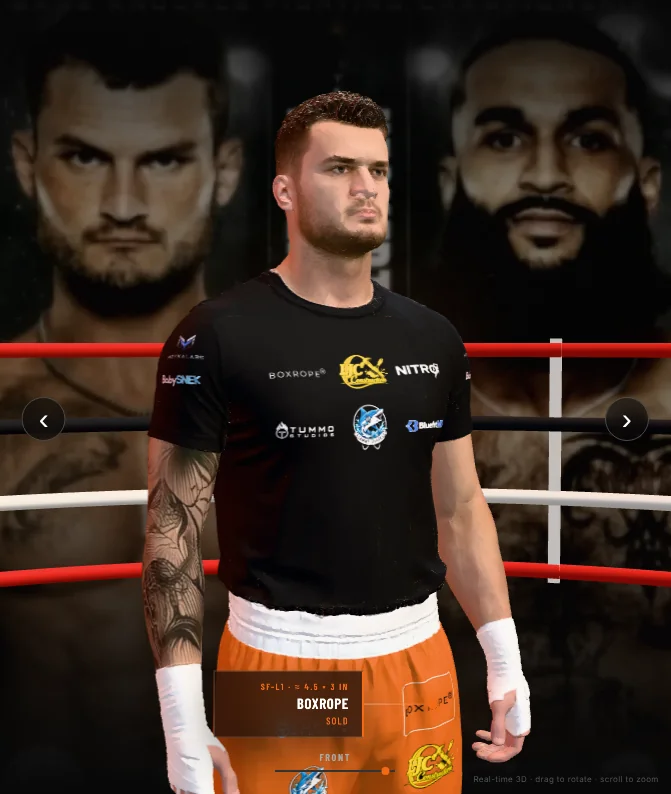
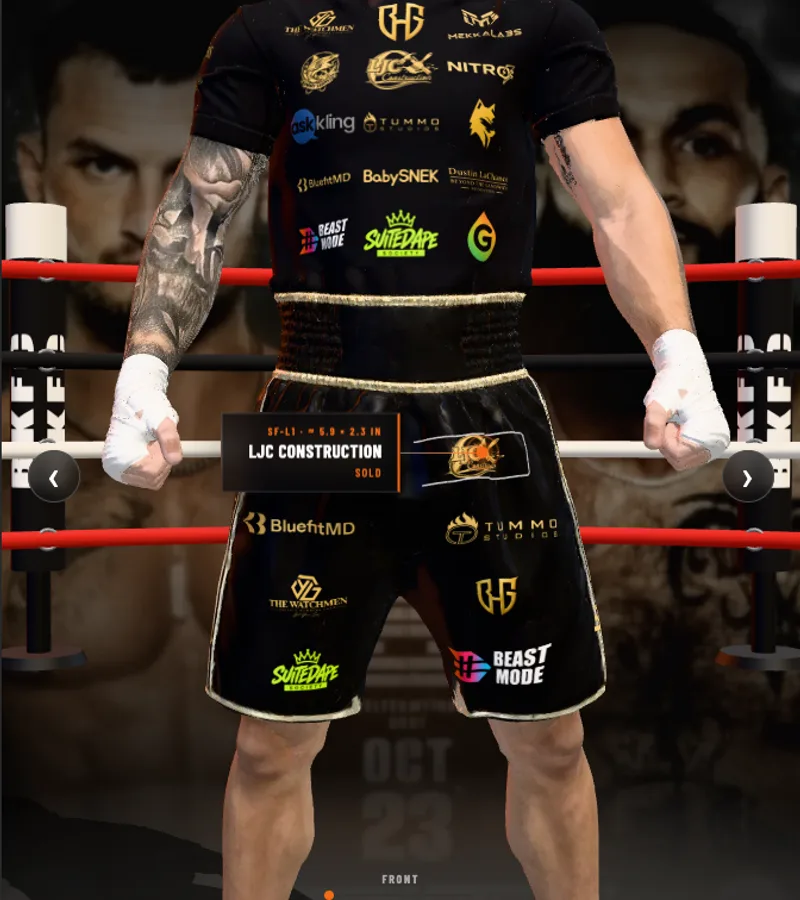
Refresh current Michael kit homepage and optimize mobile portal

diff --git a/public/styles.css b/public/styles.css
@@ -1,7 +1,40 @@
 :root{--bg:#080808;--panel:#101010;--line:#292929;--muted:#9b9b94;--ink:#f5f1e8;--green:#a7ef8b;--display:"Barlow Condensed",Impact,sans-serif;--text:Inter,Arial,sans-serif;color-scheme:dark}*{box-sizing:border-box}html,body{margin:0;min-height:100%;background:var(--bg);color:var(--ink);font-family:var(--text)}button,input{font:inherit}.portal-shell{min-height:100vh;background:radial-gradient(circle at 48% 42%,var(--brand-wash) 0,rgba(8,8,8,0) 33%),#080808;overflow:hidden}.topbar,.portal-footer{height:82px;display:flex;align-items:center;justify-content:space-between;padding:0 clamp(20px,3vw,52px);border-bottom:1px solid var(--line);position:relative;z-index:5}.brand{display:flex;align-items:center;gap:13px;color:inherit;text-decoration:none}.brand-mark{font:800 22px/1 var(--display);letter-spacing:-1px;border:2px solid var(--ink);padding:8px 7px 6px;transform:skew(-7deg)}.brand-copy{display:grid;gap:2px}.brand-copy strong{font:700 17px/1 var(--display);letter-spacing:.1em}.brand-copy small,.event-lockup span{font-size:9px;letter-spacing:.17em;color:var(--muted)}.event-lockup{text-align:right;display:grid;gap:2px}.event-lockup strong{font:700 17px/1 var(--display);letter-spacing:.06em}.experience{min-height:calc(100vh - 152px);display:grid;grid-template-columns:minmax(230px,1fr) minmax(440px,1.85fr) minmax(300px,1.12fr);position:relative}.intro-panel,.inventory-panel{padding:clamp(32px,4vw,66px) clamp(22px,3vw,48px);position:relative;z-index:3}.intro-panel{display:flex;flex-direction:column;justify-content:center;border-right:1px solid var(--line);background:linear-gradient(90deg,#0d0d0d 75%,rgba(13,13,13,.35))}.eyebrow{margin:0 0 12px;color:var(--orange);font:700 11px/1 var(--display);letter-spacing:.22em}.intro-panel h1{font:800 clamp(48px,5.4vw,88px)/.82 var(--display);letter-spacing:-.045em;text-transform:uppercase;margin:0 0 28px}.intro-panel h1 em{font-style:normal;color:var(--orange)}.intro-copy{color:#b5b2aa;font-size:13px;line-height:1.7;max-width:330px;margin:0 0 34px}.garment-tabs{display:grid;grid-template-columns:1fr 1fr;border:1px solid var(--line);padding:4px;max-width:340px}.garment-tab{border:0;background:transparent;color:var(--muted);padding:12px 8px;text-transform:uppercase;font:700 13px/1 var(--display);letter-spacing:.08em;cursor:pointer}.garment-tab.is-active{background:var(--ink);color:#0a0a0a}.view-actions{display:grid;grid-template-columns:repeat(4,1fr);gap:5px;max-width:340px;margin-top:10px}.view-actions button{background:#151515;color:#aaa;border:1px solid #242424;padding:9px 3px;text-transform:uppercase;font:600 10px/1 var(--display);letter-spacing:.08em;cursor:pointer}.view-actions button:hover{color:white;border-color:#555}.drag-instruction{margin-top:30px;display:flex;align-items:center;gap:12px;text-transform:uppercase;font:600 9px/1 var(--display);letter-spacing:.15em;color:#777}.drag-line{width:48px;height:1px;background:#555;position:relative}.drag-line:before,.drag-line:after{content:"";position:absolute;top:-3px;width:7px;height:7px;border-top:1px solid #777;border-left:1px solid #777}.drag-line:before{left:0;transform:rotate(-45deg)}.drag-line:after{right:0;transform:rotate(135deg)}.model-stage{position:relative;min-height:670px;height:calc(100vh - 152px);display:flex;align-items:flex-end;justify-content:center;overflow:hidden;touch-action:none;cursor:grab;background:radial-gradient(ellipse at 50% 80%,rgba(var(--accent-rgb),.22),transparent 42%)}.model-stage.is-dragging{cursor:grabbing}.stage-glow{position:absolute;width:62%;height:72%;left:19%;bottom:7%;background:radial-gradient(ellipse,rgba(var(--accent-rgb),.16),transparent 66%);filter:blur(20px)}.stage-glow:after{content:"";position:absolute;left:10%;right:10%;bottom:3%;height:2px;background:linear-gradient(90deg,transparent,var(--orange),transparent);box-shadow:0 0 30px var(--orange)}.viewer-canvas{position:absolute;inset:0;width:100%;height:100%;display:block;z-index:1;outline:0}.viewer-loading{position:absolute;inset:0;display:flex;align-items:center;justify-content:center;z-index:2;color:#888;font:700 12px/1 var(--display);letter-spacing:.2em;pointer-events:none;transition:opacity .4s}.model-stage.is-ready .viewer-loading{opacity:0}.garment-overlay{position:absolute;inset:0;width:100%;height:100%;pointer-events:none;overflow:visible}.garment-overlay #garmentPath{stroke:rgba(255,255,255,.12);stroke-width:2}.slot{pointer-events:auto;cursor:pointer;transition:opacity .18s,filter .18s}.slot rect{fill:rgba(255,255,255,.07);stroke:rgba(255,255,255,.78);stroke-width:2;stroke-dasharray:7 5;rx:4}.slot text{fill:white;font:700 16px var(--display);letter-spacing:1px;text-anchor:middle;dominant-baseline:middle}.slot:hover rect,.slot.is-selected rect{fill:rgba(var(--accent-rgb),.28);stroke:var(--orange);filter:drop-shadow(0 0 8px rgba(var(--accent-rgb),.65))}.slot image{pointer-events:none}.rotate-button{position:absolute;top:50%;z-index:4;width:44px;height:44px;border-radius:50%;border:1px solid #4b4b4b;background:rgba(8,8,8,.55);color:white;font:300 30px/1 Arial;cursor:pointer;backdrop-filter:blur(8px)}.rotate-prev{left:22px}.rotate-next{right:22px}.orientation{position:absolute;bottom:22px;left:50%;transform:translateX(-50%);z-index:4;text-align:center;font:700 10px/1 var(--display);letter-spacing:.16em;color:#aaa}.orientation-track{width:120px;height:2px;background:#333;margin-top:8px;position:relative}.orientation-track i{display:block;position:absolute;top:-3px;width:8px;height:8px;border-radius:50%;background:var(--orange);transform:translateX(-50%);transition:left .15s}.model-credit{position:absolute;right:12px;bottom:10px;color:#555;font-size:8px;letter-spacing:.05em;z-index:3}.inventory-panel{border-left:1px solid var(--line);background:linear-gradient(270deg,#0d0d0d 75%,rgba(13,13,13,.55));overflow:auto;max-height:calc(100vh - 82px)}.inventory-heading{display:flex;align-items:flex-start;justify-content:space-between;gap:12px;margin-bottom:22px}.inventory-heading h2{margin:0;font:700 25px/1 var(--display);text-transform:uppercase}.availability{display:flex;align-items:center;gap:6px;color:var(--green);font:600 9px/1 var(--display);letter-spacing:.12em;text-transform:uppercase}.availability i{width:6px;height:6px;border-radius:50%;background:var(--green);box-shadow:0 0 8px var(--green)}.inventory-list{display:grid;gap:6px;margin-bottom:22px;max-height:340px;overflow:auto;padding-right:4px;scrollbar-color:#4a4a4a transparent;scrollbar-width:thin}.inventory-item{display:grid;grid-template-columns:34px 1fr auto;align-items:center;gap:10px;text-align:left;border:1px solid #252525;background:#141414;color:#d9d5cc;padding:10px 12px;cursor:pointer}.inventory-item:hover,.inventory-item.is-selected{border-color:var(--orange-stroke);background:var(--orange-panel)}.inventory-item .num{font:700 12px/1 var(--display);color:var(--orange)}.inventory-item strong{display:block;font:600 12px/1.15 var(--text)}.inventory-item small{font-size:9px;color:#777}.inventory-item .status{font:600 8px/1 var(--display);letter-spacing:.12em;color:var(--green)}.selection-card{border-top:1px solid var(--line);padding-top:22px}.selection-top{display:flex;justify-content:space-between;font:700 9px/1 var(--display);letter-spacing:.15em;color:var(--orange)}.selection-top span:last-child{color:var(--green)}.selection-card h3{font:700 28px/1 var(--display);text-transform:uppercase;margin:10px 0 8px}.selection-card>p{font-size:11px;line-height:1.55;color:#8f8d87}.logo-upload{display:flex;align-items:center;justify-content:center;margin:17px 0 8px;border:1px dashed #4c4c4c;background:#151515;min-height:46px;color:#bbb;font:600 10px/1 var(--display);letter-spacing:.11em;text-transform:uppercase;cursor:pointer}.logo-upload:hover{border-color:var(--orange);color:white}.logo-upload input{display:none}.primary-cta{width:100%;border:0;background:var(--orange);color:#100702;padding:15px 18px;font:800 13px/1 var(--display);letter-spacing:.09em;text-transform:uppercase;cursor:pointer}.primary-cta:hover{background:var(--orange-hover)}.privacy-note{text-align:center;font-size:8px!important;color:#666!important}.portal-footer{height:70px;border-top:1px solid var(--line);border-bottom:0}.portal-footer>div{display:grid;gap:3px}.portal-footer strong{font:700 13px/1 var(--display);letter-spacing:.08em}.portal-footer span{font:500 8px/1 var(--display);color:#777;letter-spacing:.12em}.portal-footer button{border:1px solid #3b3b3b;background:transparent;color:#aaa;padding:10px 18px;font:600 10px/1 var(--display);letter-spacing:.11em;text-transform:uppercase;cursor:pointer}dialog{width:min(620px,calc(100% - 30px));background:#111;color:var(--ink);border:1px solid #373737;padding:38px;box-shadow:0 30px 100px #000}dialog::backdrop{background:rgba(0,0,0,.82);backdrop-filter:blur(6px)}dialog h2{font:700 38px/1 var(--display);text-transform:uppercase;margin:0 0 12px}dialog p{color:#aaa;font-size:13px;line-height:1.6}dialog pre{white-space:pre-wrap;word-break:break-all;background:#080808;border:1px solid #2a2a2a;padding:16px;color:#d0c9bc;font-size:11px;line-height:1.5}.dialog-close{position:absolute;right:14px;top:12px;border:0;background:none;color:#888;font-size:28px;cursor:pointer}
-@media(max-width:1100px){.experience{grid-template-columns:230px minmax(400px,1fr) 300px}.intro-panel,.inventory-panel{padding:32px 20px}.intro-panel h1{font-size:55px}}
-@media(max-width:820px){.portal-shell{overflow:visible}.topbar{height:66px}.event-lockup{display:none}.experience{display:flex;flex-direction:column}.intro-panel{border-right:0;border-bottom:1px solid var(--line);padding:25px 20px 18px}.intro-panel h1{font-size:52px;margin-bottom:16px}.intro-copy{margin-bottom:18px}.garment-tabs,.view-actions{max-width:none}.drag-instruction{margin-top:16px}.model-stage{min-height:610px;height:76vh}.inventory-panel{border-left:0;border-top:1px solid var(--line);max-height:none;padding:30px 20px 42px}.model-credit{display:none}.portal-footer{height:auto;padding:18px 20px;gap:15px;align-items:flex-start}.portal-footer span{line-height:1.4}.rotate-prev{left:10px}.rotate-next{right:10px}}
-@media(max-width:480px){.brand-copy small{display:none}.model-stage{height:66vh;min-height:540px}.intro-panel h1{font-size:47px}.orientation{bottom:14px}.inventory-heading{align-items:flex-end}.portal-footer>div span{max-width:230px}.slot text{font-size:20px}}
+@media(max-width:1100px){
+  .portal-shell{overflow:visible}
+  .topbar{height:60px;padding:0 18px}
+  .event-lockup{display:none}
+  .experience{display:grid;grid-template-columns:minmax(0,1fr);grid-template-areas:"intro" "stage" "controls" "extras" "inventory";min-height:0}
+  .intro-panel{display:contents}
+  .intro-heading{grid-area:intro;padding:18px 20px 14px;background:#0d0d0d}
+  .intro-panel h1{font-size:34px;line-height:1;margin-bottom:10px;letter-spacing:-.02em}
+  .intro-panel h1 br{display:initial}
+  .intro-copy{max-width:650px;font-size:12px;line-height:1.5;margin:0}
+  .intro-heading .eyebrow{font-size:10px;margin-bottom:8px}
+  .model-stage{grid-area:stage;min-height:0;height:clamp(360px,58vh,640px);height:clamp(360px,58svh,640px);touch-action:pan-y}
+  .kit-controls{grid-area:controls;padding:14px 20px;background:#101010;border-top:1px solid var(--line)}
+  .garment-tabs,.view-actions,.motion-bar{max-width:none}
+  .garment-tab,.view-actions button,.motion-bar button{min-height:44px;font-size:12px}
+  .view-actions{margin-top:8px}
+  .motion-bar{margin-top:12px}
+  .intro-extras{grid-area:extras;padding:0 20px 18px;background:#101010}
+  .drag-instruction{margin:4px 0 0;font-size:10px}
+  .inventory-panel{grid-area:inventory;border-left:0;border-top:1px solid var(--line);max-height:none;padding:24px 20px 32px;overflow:visible}
+  .inventory-list{max-height:300px}
+  .inventory-item{min-height:56px}
+  .inventory-item strong{font-size:13px;overflow-wrap:anywhere}
+  .inventory-item small{font-size:10px}
+  .inventory-item>span:nth-child(2){min-width:0}
+  .selection-card>p{font-size:13px}
+  .bid-fields input,.bid-amount input{font-size:16px;min-height:48px}
+  .primary-cta,.secondary-cta,.lock-cta,.pay-cta{min-height:48px}
+  .model-credit{display:none}
+  .portal-footer{height:auto;padding:18px 20px;gap:15px;align-items:flex-start;flex-wrap:wrap}
+  .portal-footer span{line-height:1.4}
+  .portal-footer button{min-height:44px}
+  .rotate-prev{left:10px}
+  .rotate-next{right:10px}
+}
+@media(max-width:480px){.brand-copy small{display:none}.model-stage{height:clamp(360px,58vh,520px);height:clamp(360px,58svh,520px)}.intro-panel h1{font-size:30px}.orientation{bottom:14px}.inventory-heading{align-items:flex-end}.portal-footer>div span{max-width:230px}.slot text{font-size:20px}}
 @media(prefers-reduced-motion:reduce){*{scroll-behavior:auto!important;transition:none!important}}
 .inventory-item.is-sold{opacity:.72}.inventory-item.is-sold .status{color:var(--orange)}.inventory-item.is-sold strong{color:#f5f1e8}.availability.is-full,.availability.is-full i{color:var(--orange);background:var(--orange);box-shadow:none}.availability.is-full{background:none}.selection-card.is-sold .selection-top span:last-child{color:var(--orange)}.selection-card.is-sold .logo-upload,.selection-card.is-sold .primary-cta,.selection-card.is-sold .privacy-note{display:none}
 .viewer-loading{flex-direction:column;gap:14px}.spinner{width:34px;height:34px;border-radius:50%;border:2px solid #2a2a2a;border-top-color:var(--orange);animation:spin .9s linear infinite}@keyframes spin{to{transform:rotate(360deg)}}.model-stage.has-error .spinner{display:none}.model-stage.has-error .viewer-loading{color:#d9d5cc;letter-spacing:.08em;text-align:center;padding:0 30px}.viewer-canvas{opacity:0;transition:opacity .6s}.model-stage.is-ready .viewer-canvas{opacity:1}.viewer-canvas:focus-visible{outline:2px solid var(--orange);outline-offset:-2px}
@@ -12,8 +45,8 @@
 .sponsor-logo.is-dark-art{background:#efece4;border-color:#efece4}
 /* Embedded inside a host page: the host iframe is sized from the document height, so avoid viewport units. */
 html.is-embedded,html.is-embedded body{min-height:0}html.is-embedded .portal-shell{min-height:0}html.is-embedded .experience{min-height:0}html.is-embedded .model-stage{height:auto;min-height:740px;align-self:stretch}html.is-embedded .inventory-panel{max-height:none}html.is-embedded .inventory-list{max-height:300px}html.is-embedded #embedButton{display:none}
-@media(max-width:820px){html.is-embedded .model-stage{height:600px;min-height:0}}
-@media(max-width:480px){html.is-embedded .model-stage{height:520px;min-height:0}}
+@media(max-width:1100px){html.is-embedded .model-stage{height:560px;min-height:0}}
+@media(max-width:480px){html.is-embedded .model-stage{height:460px;min-height:0}}
 .bid-panel{margin-top:14px;display:grid;gap:12px}.bid-status{display:grid;grid-template-columns:1fr 1fr;gap:8px}.bid-stat{border:1px solid var(--line);background:#141414;padding:12px 12px 10px;display:grid;gap:4px}.bid-stat span{font:700 9px/1 var(--display);letter-spacing:.18em;color:var(--muted);text-transform:uppercase}.bid-stat strong{font:800 24px/1 var(--display);letter-spacing:-.01em}.bid-stat small{font-size:10px;color:#9b9b94;line-height:1.35;white-space:normal;overflow-wrap:anywhere}.bid-stat--lock{border-color:rgba(var(--accent-rgb),.55);background:linear-gradient(180deg,var(--orange-gradient),#141414)}.bid-stat--lock strong{color:var(--orange)}#bidForm{display:grid;gap:8px}.bid-fields{display:grid;grid-template-columns:1fr 1fr;gap:6px}.bid-fields input,.bid-amount input{width:100%;min-width:0;border:1px solid #3a3a3a;background:#0c0c0c;color:var(--ink);padding:10px 11px;font-size:12px;border-radius:0}.bid-fields input:focus,.bid-amount input:focus{outline:none;border-color:var(--orange)}.bid-actions{display:grid;grid-template-columns:minmax(0,1fr) minmax(0,1.3fr);gap:6px}.bid-amount{display:flex;align-items:center;border:1px solid #3a3a3a;background:#0c0c0c}.bid-amount span{padding:0 0 0 11px;color:var(--muted);font:700 14px/1 var(--display)}.bid-amount input{border:0;padding-left:5px;font:800 16px/1 var(--display);-moz-appearance:textfield}.bid-amount input::-webkit-outer-spin-button,.bid-amount input::-webkit-inner-spin-button{-webkit-appearance:none;margin:0}.bid-panel .primary-cta{padding:13px 12px}.lock-cta{width:100%;border:2px solid var(--orange);background:transparent;color:var(--orange);padding:13px 18px;font:800 14px/1 var(--display);letter-spacing:.1em;text-transform:uppercase;cursor:pointer;transition:background .15s,color .15s}.lock-cta:hover{background:var(--orange);color:#100702}.lock-cta:disabled,.bid-panel .primary-cta:disabled{opacity:.45;cursor:not-allowed}.lock-cta:focus-visible{outline:2px solid var(--orange);outline-offset:2px}.bid-error{margin:0;color:#ff8f6b;font-size:11px;line-height:1.45}.bid-benefits{border:1px solid var(--line);background:#0e0e0e;font-size:11px;line-height:1.5;color:#c9c6bd}.bid-benefits summary{cursor:pointer;padding:10px 12px;font:700 10px/1 var(--display);letter-spacing:.16em;text-transform:uppercase;color:var(--ink)}.bid-benefits p{margin:0 12px 6px;color:#9b9b94}.bid-benefits ul{margin:0 0 10px;padding:0 12px 0 28px}.bid-benefits li{margin:3px 0}.bid-benefits strong{color:var(--orange)}.bid-note{margin:0;font-size:10px;line-height:1.5;color:#7f7d76}.bid-note a{color:var(--muted)}.selection-card.is-sold .bid-panel{display:none}
 @media(max-width:480px){.bid-fields,.bid-status{grid-template-columns:1fr}.bid-actions{grid-template-columns:1fr}}
 .bid-success{display:grid;gap:8px;padding:14px;border:1px solid rgba(var(--accent-rgb),.55);background:linear-gradient(180deg,var(--orange-gradient),#141414)}.bid-success[hidden]{display:none}.bid-success strong{font:800 15px/1.2 var(--display);letter-spacing:.02em;color:var(--orange)}.bid-success p{margin:0;font-size:11px;line-height:1.5;color:#c9c6bd}.bid-success{margin-top:14px}.pay-cta{display:block;text-align:center;text-decoration:none;background:var(--orange);color:#100702;padding:13px 18px;font:800 13px/1 var(--display);letter-spacing:.09em;text-transform:uppercase}.pay-cta:hover{background:var(--orange-pay-hover)}.pay-cta[hidden]{display:none}
@@ -26,7 +59,7 @@ html.is-embedded,html.is-embedded body{min-height:0}html.is-embedded .portal-she
 /* Viewport fit (desktop, standalone): the whole portal sits in one 100vh screen. The right column is a flex column
    where the inventory list absorbs the slack and scrolls, so the detail card, bid form and Lock button stay in view. */
 :root{--topbar-h:60px;--footer-h:46px}
-@media(min-width:821px) and (min-height:600px){
+@media(min-width:1101px) and (min-height:600px){
 html:not(.is-embedded) .topbar{height:var(--topbar-h);flex:none}html:not(.is-embedded) .portal-footer{height:var(--footer-h);flex:none}
 html:not(.is-embedded) .brand-mark{font-size:19px;padding:6px 6px 5px}
 html:not(.is-embedded) .portal-shell{min-height:100vh;height:100vh;display:flex;flex-direction:column;overflow:hidden}
@@ -62,7 +95,7 @@ html:not(.is-embedded) .drag-instruction{margin-top:18px}
 html:not(.is-embedded) .poster-card{margin-top:18px;padding:8px}html:not(.is-embedded) .poster-card img{width:48px;height:60px}
 }
 /* Short desktop screens (13" laptops at 768-820px tall): one more step down. */
-@media(min-width:821px) and (min-height:600px) and (max-height:820px){
+@media(min-width:1101px) and (min-height:600px) and (max-height:820px){
 :root{--topbar-h:54px;--footer-h:40px}
 html:not(.is-embedded) .intro-panel h1{font-size:clamp(34px,3.8vw,54px);margin-bottom:12px;line-height:.85}
 html:not(.is-embedded) .intro-copy{margin-bottom:14px;font-size:12px}
@@ -89,7 +122,7 @@ html:not(.is-embedded) .portal-footer span{display:none}
 .spot-callout.is-left .spot-callout-line{left:auto;right:5px;background:linear-gradient(270deg,var(--orange),rgba(255,255,255,.55))}.spot-callout.is-left .spot-callout-card{left:auto;right:69px;border-left:1px solid rgba(255,255,255,.14);border-right:2px solid var(--orange);text-align:right}
 .spot-callout-code{font:700 9px/1 var(--display);letter-spacing:.16em;color:var(--orange);text-transform:uppercase;white-space:nowrap}.spot-callout-name{font:700 15px/1.1 var(--display);letter-spacing:.03em;text-transform:uppercase;color:#fff}.spot-callout-meta{font:600 10px/1 var(--display);letter-spacing:.12em;text-transform:uppercase;color:var(--green)}.spot-callout.is-sold .spot-callout-meta{color:var(--orange)}
 .spec-row{display:grid;grid-template-columns:repeat(3,minmax(0,1fr));gap:1px;margin:10px 0 2px;background:var(--line);border:1px solid var(--line)}.spec{display:grid;gap:4px;padding:8px 10px;background:#111}.spec span{font:700 8px/1 var(--display);letter-spacing:.16em;color:var(--muted);text-transform:uppercase}.spec strong{font:700 13px/1.1 var(--display);letter-spacing:.02em;color:var(--ink);white-space:nowrap;overflow:hidden;text-overflow:ellipsis}.spec-row:empty{display:none}
-@media(max-width:820px){.spot-callout-card{min-width:120px;padding:8px 10px}.spot-callout-line{width:36px}.spot-callout-card{left:41px}.spot-callout.is-left .spot-callout-card{right:41px}}
+@media(max-width:1100px){.spot-callout-card{min-width:100px;max-width:140px;padding:8px 10px}.spot-callout-name{font-size:12px}.spot-callout-line{width:24px}.spot-callout-card{left:29px}.spot-callout.is-left .spot-callout-card{right:29px}}
 @media(prefers-reduced-motion:reduce){.spot-callout-dot:after{animation:none}}
 body.is-showcase #bidPanel,body.is-showcase .logo-upload,body.is-showcase .preview-thumb,body.is-showcase .bid-success,body.is-showcase .privacy-note,body.is-showcase .availability,body.is-showcase #openPlacements{display:none}
 .demo-badge{position:absolute;top:18px;left:20px;z-index:5;max-width:calc(100% - 120px);padding:8px 10px;border:1px solid rgba(var(--accent-rgb),.5);background:rgba(8,8,8,.76);color:var(--orange);font:800 11px/1 var(--display);letter-spacing:.12em;text-transform:uppercase;backdrop-filter:blur(8px)}
@@ -115,3 +148,4 @@ html.is-card-capture .experience{display:block;height:100vh;min-height:100vh}
 html.is-card-capture .model-stage{width:100vw;height:100vh;min-height:0;cursor:default}
 
 .motion-bar{display:grid;grid-template-columns:repeat(3,1fr);gap:5px;max-width:340px;margin-top:18px}.motion-bar[hidden]{display:none}.motion-title{grid-column:1/-1;display:flex;align-items:center;gap:8px;margin-bottom:3px;color:var(--orange);font:700 11px/1 var(--display);letter-spacing:.22em;text-transform:uppercase}.motion-title:after{content:"";flex:1;height:1px;background:var(--line)}.motion-bar button{background:#151515;color:#aaa;border:1px solid #242424;padding:9px 3px;text-transform:uppercase;font:600 10px/1 var(--display);letter-spacing:.08em;cursor:pointer;transition:color .15s,border-color .15s,background .15s}.motion-bar button:hover{color:#fff;border-color:#555}.motion-bar button.is-playing{color:#fff;border-color:var(--orange);background:var(--orange-panel)}.motion-bar button.is-playing:before{content:"";display:inline-block;width:5px;height:5px;margin-right:6px;border-radius:50%;background:var(--orange);vertical-align:1px;animation:motion-pulse 1s ease-in-out infinite}.motion-bar button:focus-visible{outline:2px solid var(--orange);outline-offset:2px}@keyframes motion-pulse{50%{opacity:.25}}
+@media(max-width:1100px){.motion-bar{grid-template-columns:repeat(2,minmax(0,1fr));max-width:none;margin-top:12px}.motion-bar button{min-height:44px;font-size:12px}.bid-fields input,.bid-amount input{font-size:16px}}

diff --git a/public/index.html b/public/index.html
@@ -24,25 +24,28 @@
 <body>
   <header class="nav" id="top">
     <a class="wordmark" href="/" aria-label="Athlete Sponsorship Portal home"><span class="wordmark-mark">ASP</span><span class="wordmark-text">Athlete Sponsorship Portal</span></a>
-    <nav class="nav-links" aria-label="Primary">
+    <nav class="nav-links" id="primaryNav" aria-label="Primary">
       <a href="#how">How it works</a>
       <a href="#case-study">Case study</a>
       <a href="#demos">Pick your sport</a>
       <a href="#founding">Founding offer</a>
       <a href="#faq">FAQ</a>
     </nav>
-    <a class="btn btn--primary btn--sm" href="#apply">Apply</a>
+    <div class="nav-actions">
+      <a class="btn btn--primary btn--sm" href="#apply">Apply</a>
+      <button class="nav-toggle" type="button" aria-controls="primaryNav" aria-expanded="false" hidden>Menu</button>
+    </div>
   </header>
 
   <main>
     <section class="hero">
       <div class="hero-copy">
         <p class="kicker">For fighters and athletes</p>
-        <h1>Sell every<br>inch of your<br><em>fight kit.</em></h1>
-        <p class="lede">A 360° sponsorship portal built around a 3D model of you. Sponsors spin you around, pick a placement on your shorts or walkout shirt, bid or lock it in — and pay you directly.</p>
+        <h1>Sell every inch<br>of your <em>fight kit.</em></h1>
+        <p class="lede">Your likeness. Every placement. One link. Give sponsors a 360° view of your fight kit, let them choose their spot, and get paid directly through Stripe.</p>
         <div class="hero-actions">
           <a class="btn btn--primary" href="#apply">Apply for a founding spot</a>
-          <a class="btn btn--ghost" href="/michael-heckert">See a sold-out portal</a>
+          <a class="btn btn--ghost" href="/michael-heckert">Explore Michael's portal</a>
         </div>
         <dl class="proof">
           <div><dt>Placements sold</dt><dd>12/12</dd></div>
@@ -53,26 +56,37 @@
       <figure class="hero-shot">
         <div class="browser">
           <div class="browser-bar"><i></i><i></i><i></i><span>athletes.michaelheckert.com/michael-heckert</span></div>
-          <img src="/assets/marketing/portal-hero.webp" width="1440" height="900" alt="Michael Heckert's sold-out sponsorship portal: a 3D model of Michael in his fight shorts and walkout shirt with every sponsor logo placed">
+          <a class="hero-preview" href="/michael-heckert" aria-label="Explore Michael Heckert's current kit in 3D">
+            <picture>
+              <source media="(max-width:640px)" srcset="/assets/marketing/portal-hero-mobile.webp" width="780" height="900">
+              <img src="/assets/marketing/portal-hero.webp" width="1440" height="900" fetchpriority="high" alt="Michael Heckert's current 3D likeness in a black sponsor T-shirt and knee-length boxing trunks with gold sponsor artwork">
+            </picture>
+            <span class="hero-preview-label">Explore the kit in 3D <span aria-hidden="true">→</span></span>
+          </a>
         </div>
-        <figcaption>Michael Heckert · BKFC Fight Night Clearwater · every placement sold</figcaption>
+        <figcaption>Michael Heckert · Current likeness &amp; sponsor kit</figcaption>
       </figure>
     </section>
 
     <section class="sponsors" aria-label="Brands that sponsored Michael Heckert">
-      <p class="kicker kicker--muted">Brands that bought placements on Michael's kit</p>
+      <p class="kicker kicker--muted">17 brands on Michael's current kit</p>
       <ul class="sponsor-wall">
-        <li><img src="/tenants/michael-heckert/sponsors/boxrope.png" alt="Boxrope" loading="lazy"></li>
-        <li><img src="/tenants/michael-heckert/sponsors/ljc-construction.png" alt="LJC Construction" loading="lazy"></li>
-        <li><img src="/tenants/michael-heckert/sponsors/nitro.png" alt="Nitro" loading="lazy"></li>
-        <li><img src="/tenants/michael-heckert/sponsors/tummo-studios.png" alt="Tummo Studios" loading="lazy"></li>
-        <li><img src="/tenants/michael-heckert/sponsors/sammy-sharks.png" alt="Sammy Sharks" loading="lazy"></li>
-        <li><img src="/tenants/michael-heckert/sponsors/bluefitmd.png" alt="BluefitMD" loading="lazy"></li>
-        <li><img src="/tenants/michael-heckert/sponsors/mekkalabs.png" alt="Mekkalabs" loading="lazy"></li>
-        <li><img src="/tenants/michael-heckert/sponsors/babysnek.png" alt="BabySNEK" loading="lazy"></li>
-        <li><img src="/tenants/michael-heckert/sponsors/watchmen.png" alt="Watchmen" loading="lazy"></li>
+        <li><img src="/tenants/michael-heckert/sponsors/king-killers-gold.png" alt="King Killers" loading="lazy"></li>
+        <li><img src="/tenants/michael-heckert/sponsors/boxrope-gold.png" alt="Boxrope" loading="lazy"></li>
+        <li><img src="/tenants/michael-heckert/sponsors/watchmen-gold.png" alt="Watchmen PMC" loading="lazy"></li>
+        <li><img src="/tenants/michael-heckert/sponsors/bhg-gold.png" alt="BHG" loading="lazy"></li>
+        <li><img src="/tenants/michael-heckert/sponsors/ljc-construction-gold.png" alt="LJC Construction" loading="lazy"></li>
+        <li><img src="/tenants/michael-heckert/sponsors/nitro-gold.png" alt="Nitro" loading="lazy"></li>
+        <li><img src="/tenants/michael-heckert/sponsors/tummo-studios-gold.png" alt="Tummo Studios" loading="lazy"></li>
+        <li><img src="/tenants/michael-heckert/sponsors/sammy-sharks-gold.png" alt="Sammy Sharks" loading="lazy"></li>
+        <li><img src="/tenants/michael-heckert/sponsors/bluefitmd-gold.png" alt="BluefitMD" loading="lazy"></li>
+        <li><img src="/tenants/michael-heckert/sponsors/mekkalabs-gold.png" alt="Mekkalabs" loading="lazy"></li>
+        <li><img src="/tenants/michael-heckert/sponsors/babysnek-gold.png" alt="BabySNEK" loading="lazy"></li>
+        <li><img src="/tenants/michael-heckert/sponsors/daunt-gold.png" alt="Daunt" loading="lazy"></li>
+        <li><img src="/tenants/michael-heckert/sponsors/dustin-lachance-foundation-gold.png" alt="Dustin LaChance Foundation" loading="lazy"></li>
+        <li><img src="/tenants/michael-heckert/sponsors/askkling.png" alt="askkling" loading="lazy"></li>
+        <li><img src="/tenants/michael-heckert/sponsors/beastmode-white.png" alt="#BEASTMODE App" loading="lazy"></li>
         <li><img src="/tenants/michael-heckert/sponsors/suited-ape-society.png" alt="Suited Ape Society" loading="lazy"></li>
-        <li><img src="/tenants/michael-heckert/sponsors/beastmode.png" alt="#BEASTMODE App" loading="lazy"></li>
         <li><img src="/tenants/michael-heckert/sponsors/pergram.png" alt="PerGram App" loading="lazy"></li>
       </ul>
     </section>
@@ -92,7 +106,7 @@
 
     <section class="section section--split">
       <figure class="feature-shot">
-        <img src="/assets/marketing/placement-closeup.webp" width="1440" height="900" alt="A selected sponsor placement on the 3D fight shorts with its print size and sponsor shown in a callout" loading="lazy">
+        <img src="/assets/marketing/placement-closeup.webp" width="800" height="900" alt="A selected sponsor placement on Michael's updated boxing trunks with its print size and sponsor shown in a callout" loading="lazy">
       </figure>
       <div>
         <header class="section-head">
@@ -113,14 +127,14 @@
       <div class="case-copy">
         <p class="kicker">Case study · BKFC Fight Night Clearwater</p>
         <h2>Sold out before<br><em>fight night.</em></h2>
-        <p>Michael “King Killer” Heckert put every sponsor placement on his fight shorts and walkout T-shirt into his portal, and every one sold — even though the portal launched late in his campaign.</p>
+        <p>Michael “King Killer” Heckert sold out his original 12-placement campaign, even with a late launch. Explore his updated likeness, 3×5 front-shirt grid, upper-back Watchmen artwork and knee-length boxing trunks in the current portal.</p>
         <a class="btn btn--ghost" href="/michael-heckert">Explore Michael's portal in 3D</a>
       </div>
       <dl class="case-stats">
         <div><dd>12/12</dd><dt>Placements sold</dt></div>
         <div><dd>$1,100</dd><dt>Average per placement</dt></div>
         <div><dd>$13K+</dd><dt>Sponsorship raised</dt></div>
-        <div><dd>9</dd><dt>Brands on one kit</dt></div>
+        <div><dd>17</dd><dt>Brands on the current kit</dt></div>
       </dl>
     </section>
 

diff --git a/public/marketing.css b/public/marketing.css
@@ -29,7 +29,7 @@ h1 em,h2 em{font-style:normal;color:var(--accent)}
 
 .sponsors{width:var(--wrap);margin:0 auto;padding:30px 0 70px;text-align:center}
 .sponsor-wall{list-style:none;margin:0;padding:0;display:grid;grid-template-columns:repeat(6,minmax(0,1fr));gap:10px}
-.sponsor-wall li{display:flex;align-items:center;justify-content:center;height:74px;padding:12px;background:#efece4;border-radius:4px}.sponsor-wall img{max-height:46px;max-width:100%;width:auto;object-fit:contain}
+.sponsor-wall li{display:flex;align-items:center;justify-content:center;height:84px;padding:14px;background:#141414;border:1px solid #2c261b;border-radius:4px}.sponsor-wall img{max-height:54px;max-width:100%;width:auto;object-fit:contain}
 
 .section{width:var(--wrap);margin:0 auto;padding:100px 0;border-top:1px solid var(--line)}
 .section-head{margin-bottom:54px}.section-head h2,.case h2,.founding h2{font-size:clamp(44px,5.4vw,76px)}.section-head .lede{margin-top:22px}
@@ -39,7 +39,7 @@ h1 em,h2 em{font-style:normal;color:var(--accent)}
 .step-n{display:block;font:800 15px/1 var(--display);letter-spacing:.1em;color:var(--accent);margin-bottom:34px}.steps h3{font-size:26px;margin-bottom:12px}.steps p{margin:0;color:#b9b5ac;font-size:15px}
 
 .section--split{display:grid;grid-template-columns:minmax(0,1.05fr) minmax(0,.95fr);gap:64px;align-items:center}
-.feature-shot{margin:0;border:1px solid #2a2a2a;border-radius:10px;overflow:hidden;box-shadow:0 30px 90px rgba(0,0,0,.6)}.feature-shot img{display:block;width:100%;height:auto;aspect-ratio:671/794;object-fit:cover}
+.feature-shot{margin:0;border:1px solid #2a2a2a;border-radius:10px;overflow:hidden;box-shadow:0 30px 90px rgba(0,0,0,.6)}.feature-shot img{display:block;width:100%;height:auto;aspect-ratio:8/9;object-fit:cover}
 .section--split .section-head{margin-bottom:30px}
 .features{list-style:none;margin:0;padding:0;display:grid;gap:0}.features li{padding:18px 0;border-bottom:1px solid var(--line)}.features li:first-child{padding-top:0}.features h3{font-size:22px;margin-bottom:6px;letter-spacing:.02em}.features p{margin:0;color:#b9b5ac;font-size:15px}
 
@@ -94,3 +94,56 @@ h1 em,h2 em{font-style:normal;color:var(--accent)}
 .demo-card__tag{padding:6px 9px;border:1px solid rgba(var(--accent-rgb),.35);color:var(--accent);font:700 10px/1 var(--display);letter-spacing:.1em;text-transform:uppercase}
 .demo-card__link{margin-top:4px;color:var(--ink);font:800 13px/1 var(--display);letter-spacing:.1em;text-decoration:none;text-transform:uppercase}
 .demo-card__link:hover{color:var(--accent)}
+.nav-actions{display:flex;align-items:center;gap:10px}
+.nav-toggle{display:none;min-width:60px;min-height:44px;padding:10px;border:1px solid var(--line);background:var(--panel);color:var(--ink);font:700 13px var(--display);letter-spacing:.08em;text-transform:uppercase;cursor:pointer}
+.nav-toggle:focus-visible{outline:2px solid var(--accent);outline-offset:2px}
+.hero-preview{display:block;position:relative;text-decoration:none}
+.hero-preview-label{position:absolute;bottom:16px;right:16px;padding:12px 16px;background:rgba(8,8,8,.92);border:1px solid rgba(var(--accent-rgb),.6);font:700 12px/1 var(--display);letter-spacing:.1em;text-transform:uppercase}
+.hero-preview-label span{color:var(--accent);margin-left:12px}
+.section[id]{scroll-margin-top:88px}
+.apply-form input,.apply-form select,.apply-form textarea{font-size:16px}
+@media(max-width:1080px){
+  .nav{gap:12px}
+  .nav-toggle:not([hidden]){display:block}
+  .nav-links{position:absolute;left:0;right:0;top:100%;padding:12px 24px 20px;background:#101010;border-bottom:1px solid var(--line);box-shadow:0 20px 30px #0007}
+  .nav-links.is-open{display:grid;gap:0}
+  .nav-links a{display:flex;align-items:center;min-height:48px;border-bottom:1px solid var(--line)}
+  .nav-actions>.btn{min-height:44px}
+}
+@media(max-width:640px){
+  .hero{gap:18px;padding:28px 0 42px}
+  .hero-copy{display:contents}
+  .hero .kicker{margin:0}
+  .hero h1{font-size:clamp(44px,12vw,64px);margin:0}
+  .hero .lede{font-size:15px;line-height:1.6}
+  .hero-shot{grid-row:4}
+  .browser{border-radius:8px}
+  .browser-bar{height:28px;padding:0 10px}
+  .browser-bar span{font-size:9px;margin-left:6px}
+  .browser img{aspect-ratio:780/900;object-fit:contain}
+  .hero-preview-label{bottom:12px;right:12px;left:12px;display:flex;justify-content:space-between}
+  .hero-shot figcaption{margin-top:10px;font-size:10px;letter-spacing:.08em}
+  .hero-actions{margin:4px 0 0;gap:10px}
+  .hero-actions .btn{min-height:48px;padding:14px 16px}
+  .proof{padding-top:18px;margin-top:4px}
+  .proof div{min-width:0;padding-right:8px;margin-right:8px}
+  .proof dd{font-size:clamp(26px,8vw,34px)}
+  .proof dt{letter-spacing:.06em;line-height:1.4}
+  .sponsors{padding:20px 0 44px}
+  .sponsor-wall{gap:8px}
+  .sponsor-wall li{height:76px;padding:10px}
+  .section{padding:52px 0}
+  .section-head h2,.case h2,.founding h2{font-size:clamp(38px,10vw,54px)}
+  .case-copy p:not(.kicker){font-size:16px}
+  .case-stats div{padding:22px 14px}
+  .case-stats dd{font-size:clamp(34px,10vw,46px)}
+  .case-stats dt{font-size:11px;letter-spacing:.08em}
+  .demo-grid{grid-template-columns:repeat(2,minmax(0,1fr));gap:12px}
+  .demo-card__copy{padding:14px 12px;gap:8px}
+  .demo-card__category{font-size:10px;letter-spacing:.06em}
+  .demo-card__title{font-size:26px}
+  .demo-card__tag{font-size:9px;line-height:1.3;letter-spacing:.04em}
+  .demo-card__link{display:flex;align-items:center;min-height:44px;font-size:11px;letter-spacing:.04em}
+  .footer nav a{display:flex;align-items:center;min-height:44px}
+}
+@media(max-width:359px){.demo-grid{grid-template-columns:1fr}}

diff --git a/src/index.template.html b/src/index.template.html
@@ -45,21 +45,27 @@
 
     <section class="experience" aria-label="{{copy.experienceLabel}}">
       <aside class="intro-panel">
-        <p class="eyebrow">{{hero.eyebrow}}</p>
-        <h1>{{{hero.titleHtml}}}</h1>
-        <p class="intro-copy">{{hero.intro}}</p>
-        <div class="garment-tabs" role="tablist" aria-label="{{copy.apparelLabel}}">
-          {{{garmentTabs}}}
+        <div class="intro-heading">
+          <p class="eyebrow">{{hero.eyebrow}}</p>
+          <h1>{{{hero.titleHtml}}}</h1>
+          <p class="intro-copy">{{hero.intro}}</p>
         </div>
-        <div class="view-actions" aria-label="{{copy.quickViewsLabel}}">
-          <button data-view="front">{{copy.frontView}}</button>
-          <button data-view="back">{{copy.backView}}</button>
-          <button data-view="left">{{copy.leftView}}</button>
-          <button data-view="right">{{copy.rightView}}</button>
+        <div class="kit-controls">
+          <div class="garment-tabs" role="tablist" aria-label="{{copy.apparelLabel}}">
+            {{{garmentTabs}}}
+          </div>
+          <div class="view-actions" aria-label="{{copy.quickViewsLabel}}">
+            <button data-view="front">{{copy.frontView}}</button>
+            <button data-view="back">{{copy.backView}}</button>
+            <button data-view="left">{{copy.leftView}}</button>
+            <button data-view="right">{{copy.rightView}}</button>
+          </div>
+          <div class="motion-bar" id="motionBar" role="group" hidden></div>
         </div>
-        <div class="motion-bar" id="motionBar" role="group" hidden></div>
-        <div class="drag-instruction"><span class="drag-line"></span> {{copy.dragInstruction}}</div>
-        {{{posterCard}}}
+        <div class="intro-extras">
+          <div class="drag-instruction"><span class="drag-line"></span> {{copy.dragInstruction}}</div>
+          {{{posterCard}}}
+        </div>
       </aside>
 
       <div class="model-stage" id="modelStage">

diff --git a/public/app.js b/public/app.js
@@ -128,6 +128,12 @@ const TARGET = new THREE.Vector3(0, HOME.targetY, 0);
 camera.position.setFromSpherical(new THREE.Spherical(HOME.dist, HOME.polar, HOME.az)).add(TARGET);
 
 const controls = new OrbitControls(camera, canvas);
+const narrowViewport = window.matchMedia("(max-width:1100px)");
+function syncTouchScrolling() {
+  canvas.style.touchAction = narrowViewport.matches ? "pan-y" : "none";
+}
+narrowViewport.addEventListener("change", syncTouchScrolling);
+syncTouchScrolling();
 controls.target.copy(TARGET);
 controls.enableDamping = true;
 controls.dampingFactor = 0.08;
@@ -551,7 +557,11 @@ function renderInventory() {
 function escapeHtml(s) { return String(s).replace(/[&<>"']/g, (c) => ({ "&": "&amp;", "<": "&lt;", ">": "&gt;", '"': "&quot;", "'": "&#39;" }[c])); }
 function scrollSelectedIntoView() {
   const el = inventoryList.querySelector(".inventory-item.is-selected");
-  if (el) el.scrollIntoView({ block: "nearest", behavior: "smooth" });
+  if (!el) return;
+  const item = el.getBoundingClientRect();
+  const list = inventoryList.getBoundingClientRect();
+  const offset = item.top < list.top ? item.top - list.top : item.bottom > list.bottom ? item.bottom - list.bottom : 0;
+  if (offset) inventoryList.scrollBy({ top: offset, behavior: "smooth" });
 }
 const luminanceCache = new WeakMap();
 function isDarkArtwork(img) {
@@ -773,6 +783,7 @@ function pickSlot(e) {
   return raycaster.intersectObjects(slotMeshes.map((s) => s.mesh), false)[0];
 }
 canvas.addEventListener("pointerdown", (e) => { downAt = [e.clientX, e.clientY]; });
+canvas.addEventListener("pointercancel", () => { downAt = null; setHovered(null); });
 canvas.addEventListener("pointerup", (e) => {
   if (!downAt) return;
   const moved = Math.hypot(e.clientX - downAt[0], e.clientY - downAt[1]);

diff --git a/public/marketing.js b/public/marketing.js
@@ -2,6 +2,27 @@ const form = document.getElementById("applyForm");
 const errorEl = document.getElementById("applyError");
 const button = document.getElementById("applyButton");
 const success = document.getElementById("applySuccess");
+const navToggle = document.querySelector(".nav-toggle");
+const primaryNav = document.getElementById("primaryNav");
+if (navToggle && primaryNav) {
+  navToggle.hidden = false;
+  const setNavOpen = (open) => {
+    primaryNav.classList.toggle("is-open", open);
+    navToggle.setAttribute("aria-expanded", String(open));
+    navToggle.textContent = open ? "Close" : "Menu";
+  };
+  navToggle.addEventListener("click", () => setNavOpen(navToggle.getAttribute("aria-expanded") !== "true"));
+  primaryNav.addEventListener("click", (event) => {
+    if (event.target.closest("a")) setNavOpen(false);
+  });
+  document.addEventListener("keydown", (event) => {
+    if (event.key === "Escape" && navToggle.getAttribute("aria-expanded") === "true") {
+      setNavOpen(false);
+      navToggle.focus();
+    }
+  });
+  window.matchMedia("(min-width:1081px)").addEventListener("change", () => setNavOpen(false));
+}
 
 function showError(message) {
   errorEl.textContent = message;
